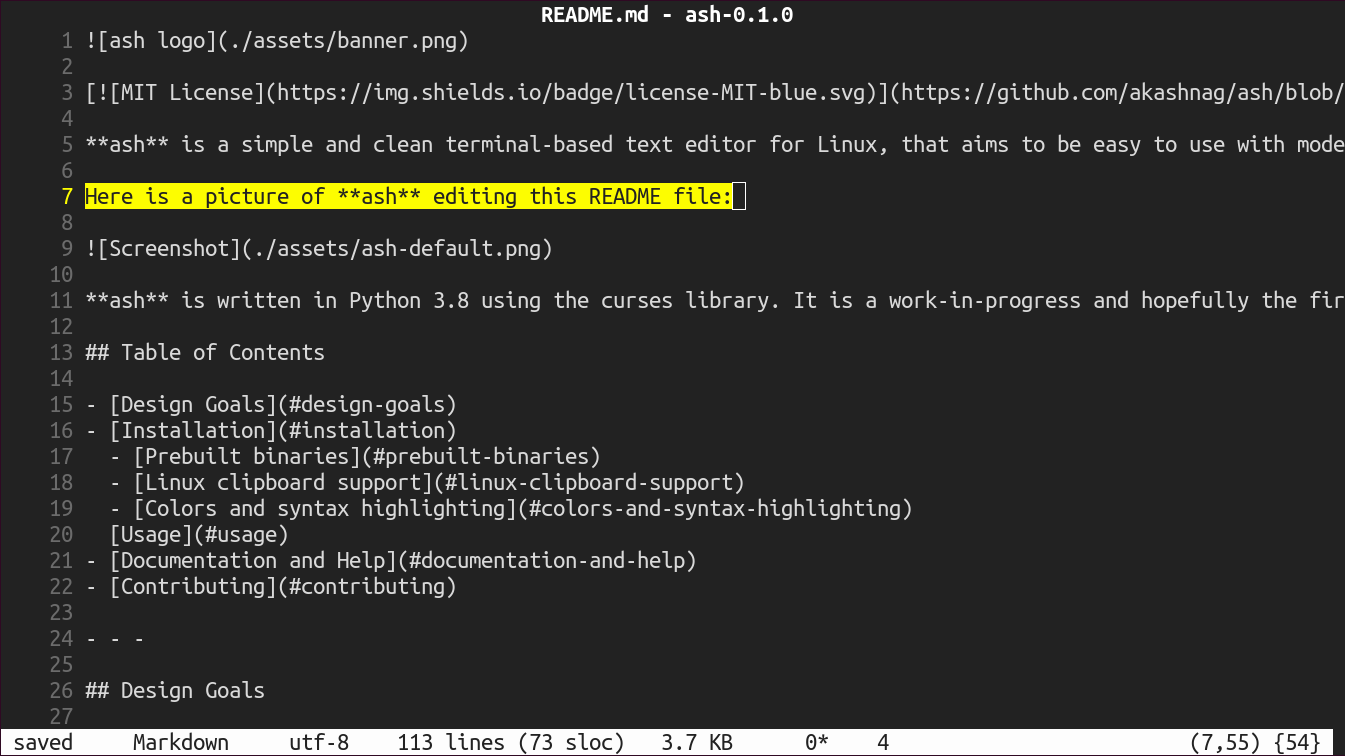
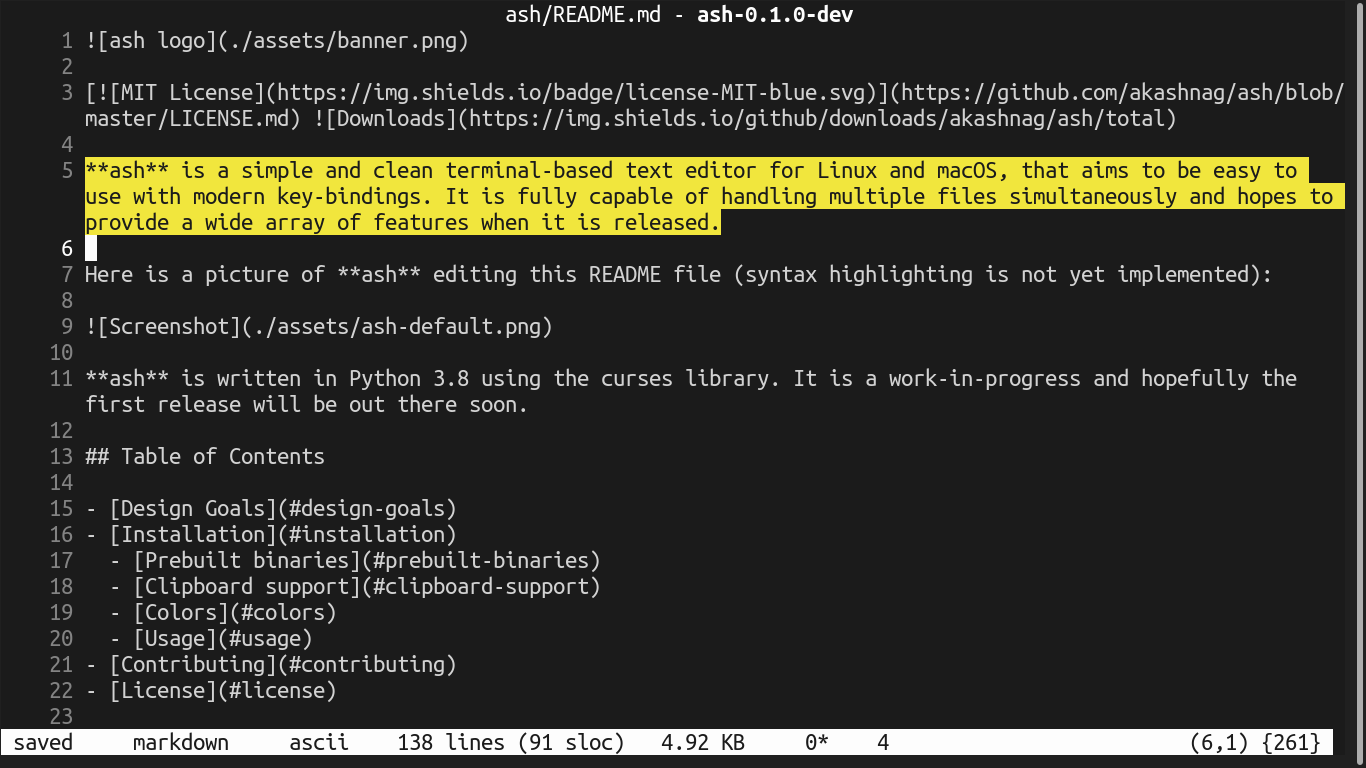
Bug fixes, added requirements.txt, updated README, updated help

Changed region(s): [[0.0, 0.0, 1.0, 1.0], [0.3747, 0.0, 0.6245, 0.0304]]

diff --git a/src/ash/utils/keyUtils.py b/src/ash/utils/keyUtils.py
@@ -7,11 +7,27 @@
 
 from ash.utils import *
 
+ARROW_LEFT		= "\u2190"
+ARROW_UP		= "\u2191"
+ARROW_RIGHT		= "\u2192"
+ARROW_DOWN		= "\u2193"
+
 ASH_KEY_BINDINGS = [
 	("GROUP:", "GENERAL COMMANDS"),
 	("------", "--------------------------------------------"),
 	("Ctrl + Q", "Close the active window"),
 	("Ctrl + @", "Discard any unsaved changes and close ash"),
+	("Tab", "Moves focus to the next element in the active window"),
+	("Shift + Tab", "Moves focus to the previous element in the active window"),
+	("Ctrl + N", "Opens a new blank buffer for editing"),
+	("Ctrl + O", "Shows the File-Open window"),
+	(f"{ARROW_UP} {ARROW_DOWN}", "Changes the selected item in a list"),
+	(f"Ctrl + {ARROW_LEFT} {ARROW_UP} {ARROW_DOWN} {ARROW_RIGHT}", "Moves the active window around"),
+	(f"{ARROW_LEFT} {ARROW_RIGHT}", "Moves the cursor in a textfield"),
+	("Del", "Deletes the character under the cursor"),
+	("Backspace", "Deletes the character to the left of the cursor"),
+	("Ctrl + L", "Opens the Layout switcher window"),
+	("Ctrl + E", "Opens the project explorer (if in directory mode)"),
 	("F1", "Activate the 1st editor in the layout"),
 	("F2", "Activate the 2nd editor in the layout"),
 	("F3", "Activate the 3rd editor in the layout"),
@@ -19,9 +35,53 @@ ASH_KEY_BINDINGS = [
 	("F5", "Activate the 5th editor in the layout"),
 	("F6", "Activate the 6th editor in the layout"),
 	("F11", "Resize window"),
-	("F12", "Show this help"),
+	("F12", "Show this help"),	
 	("", ""),			# blank line
 	
+	("GROUP:", "PROJECT EXPLORER"),
+	("------", "--------------------------------------------"),
+	("Ctrl + R", "Refresh the directory tree"),
+	("Ctrl + N", "Create a new file under the selected directory"),
+	("Ctrl + D", "Create a new directory under the selected directory"),
+	("+", "Collapse the selected directory"),
+	("-", "Expand the selected directory"),
+	("F4", "Activate the 4th editor in the layout"),
+	("F5", "Activate the 5th editor in the layout"),
+	("F6", "Activate the 6th editor in the layout"),
+	("F11", "Resize window"),
+	("F12", "Show this help"),
+	("", ""),			# blank line
+
+	("GROUP:", "EDITOR COMMANDS"),
+	("------", "--------------------------------------------"),
+	(f"{ARROW_LEFT} {ARROW_UP} {ARROW_DOWN} {ARROW_RIGHT}", "Moves the cursor"),
+	(f"Shift + {ARROW_LEFT} {ARROW_UP} {ARROW_DOWN} {ARROW_RIGHT}", "Select text"),
+	("Home", "Move cursor to the beginning of the current line"),
+	("End", "Move cursor to the end of the current line"),
+	("Ctrl + Home", "Move cursor to the beginning of the current document"),
+	("Ctrl + End", "Move cursor to the end of the current document"),
+	("PgUp", "Moves the cursor up one screenful at a time"),
+	("PgDown", "Moves the cursor down one screenful at a time"),
+	("Shift + PgUp", "Selects text upwards one screenful at a time"),
+	("Shift + PgDown", "Selects text downwards one screenful at a time"),
+	("Ctrl + A", "Selects the entire document"),
+
+	("Del", "Deletes the character under the cursor"),
+	("Backspace", "Deletes the character to the left of the cursor"),
+
+	("Ctrl + S", "Save"),
+	("Ctrl + X", "Cut"),
+	("Ctrl + C", "Copy"),
+	("Ctrl + V", "Paste"),
+	("Ctrl + Z", "Undo"),
+	("Ctrl + Y", "Redo"),
+	("Ctrl + P", "Opens the preferences window"),
+	("Ctrl + G", "Opens the Go-To-Line window"),
+	("Ctrl + F", "Opens the find window"),
+	("Ctrl + H", "Opens the find and replace window"),
+	#("", ""),			# blank line
+
+	("", "")
 ]
 
 def get_ash_key_bindings():

diff --git a/src/ash/gui/dialogHandler.py b/src/ash/gui/dialogHandler.py
@@ -301,7 +301,7 @@ class DialogHandler:
 		blist = self.app.buffers.get_list()
 		for (bid, save_status, bname) in blist:
 			lstActiveFiles.add_item((" " if save_status else UNSAVED_BULLET) + " " + get_file_title(bname), tag=bid)
-		
+			
 		# add the encodings
 		for enc in SUPPORTED_ENCODINGS:
 			lstEncodings.add_item(enc)
@@ -343,17 +343,18 @@ class DialogHandler:
 			else:							
 				filename = str(txtFileName)
 
-			if(os.path.isdir(filename)):
-				self.app.show_error("Cannot open directory, relaunch with the directory-name as\nthe first argument to ash.")
-				mw.repaint()
-				self.app.dlgFileOpen.repaint()
-				return -1
+			if(filename != None):
+				if(os.path.isdir(filename)):
+					self.app.show_error("Cannot open directory, relaunch with the directory-name as\nthe first argument to ash.")
+					mw.repaint()
+					self.app.dlgFileOpen.repaint()
+					return -1
 
-			if(BufferManager.is_binary(filename)):
-				self.app.show_error("Cannot open binary file!")
-				mw.repaint()
-				self.app.dlgFileOpen.repaint()
-				return -1
+				if(BufferManager.is_binary(filename)):
+					self.app.show_error("Cannot open binary file!")
+					mw.repaint()
+					self.app.dlgFileOpen.repaint()
+					return -1
 			
 			sel_encoding = str(lstEncodings)
 			self.app.dlgFileOpen.hide()

diff --git a/src/ash/gui/editorUtility.py b/src/ash/gui/editorUtility.py
@@ -6,6 +6,7 @@
 # This module is a helper class for Editor
 
 from ash.gui import *
+from ash.gui.cursorPosition import *
 
 class EditorUtility:
 	def __init__(self, ed):

diff --git a/README.md b/README.md
@@ -19,6 +19,7 @@ Here is a picture of **ash** editing this README file (syntax highlighting is no
   - [Colors](#colors)
   - [Usage](#usage)
 - [Contributing](#contributing)
+- [Screenshots](#screenshots)
 - [License](#license)
 
 - - -
@@ -72,10 +73,6 @@ $ sudo apt install git
 $ sudo apt install xclip
 $ sudo apt install python3
 $ sudo apt install python3-pip
-$ sudo pip3 install pyperclip
-$ sudo pip3 install pygments
-$ sudo pip3 install chardet
-$ sudo pip3 install Send2Trash
 ```
 
 #### Downloading and setting up ash
@@ -85,6 +82,8 @@ $ cd ~
 $ git clone --depth 1 -b master https://github.com/akashnag/ash.git
 $ cd ash/bin
 $ sudo chmod +x ash
+$ cd ..
+$ sudo pip3 install -r requirements.txt
 ```
 
 To be able to launch **ash** from anywhere, you need to add `~/ash/bin` to your path by editing your `.bashrc` file:
@@ -105,7 +104,7 @@ If you are using the default Ubuntu terminal, to enable 256 make sure your `TERM
 
 ## Usage
 
-Once you have downloaded the **ash** source code, and set it up as detailed above, you are ready to use it (Note: it may take some time to load for the first time):
+Once you have downloaded the **ash** source code, and set it up as detailed above, you are ready to use it (it may take some time to load for the first time) **NOTE: if you have not updated your path variable, you must specify the full path to the ash binary.**
 
 ```bash
 $ ash path/to/file.txt
@@ -123,7 +122,7 @@ or, to open a project (directory):
 $ ash path/to/directory
 ```
 
-See the [key-bindings](KEYBINDINGS.md) for help on how to navigate in ash.
+See the [Key Bindings](KEYBINDINGS.md) for help on how to navigate in ash.
 
 ## Contributing
 
@@ -132,6 +131,14 @@ If you find any bugs, please report them. I am also happy to accept pull request
 You can use the [GitHub issue tracker](https://github.com/akashnag/ash/issues) to report bugs, ask questions, or suggest new features.
 
 For discussions related to the development roadmap and the **ash** editor in general, you can join the [Gitter chat](https://gitter.im/akashnag/ash).
+
+## Screenshots
+
+![Screenshot](./assets/ss1.png)
+![Screenshot](./assets/ss2.png)
+![Screenshot](./assets/ss3.png)
+![Screenshot](./assets/ss4.png)
+![Screenshot](./assets/ss5.png)
 
 ## License
 
